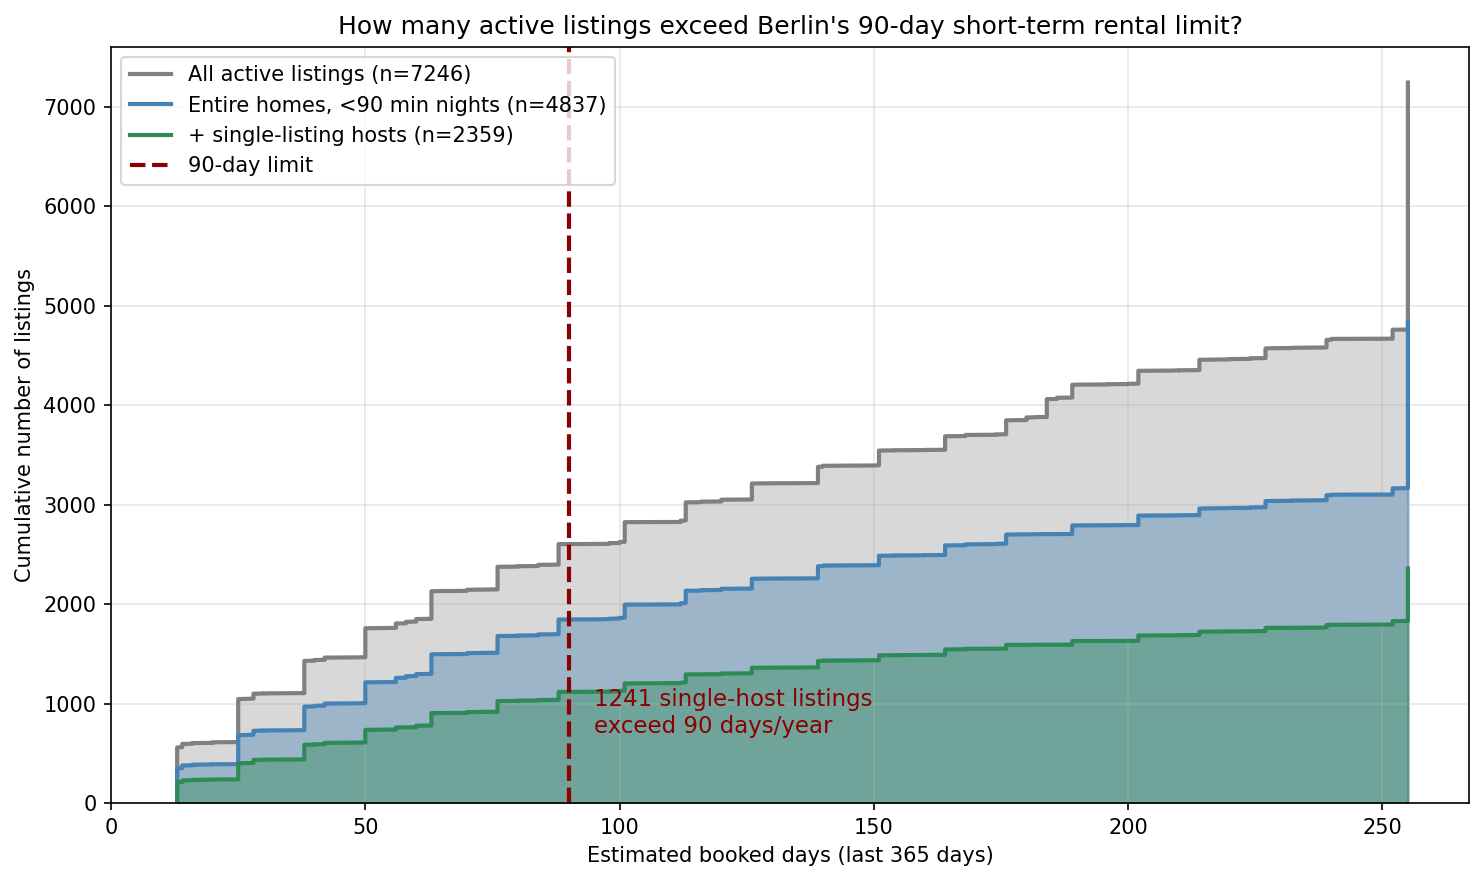
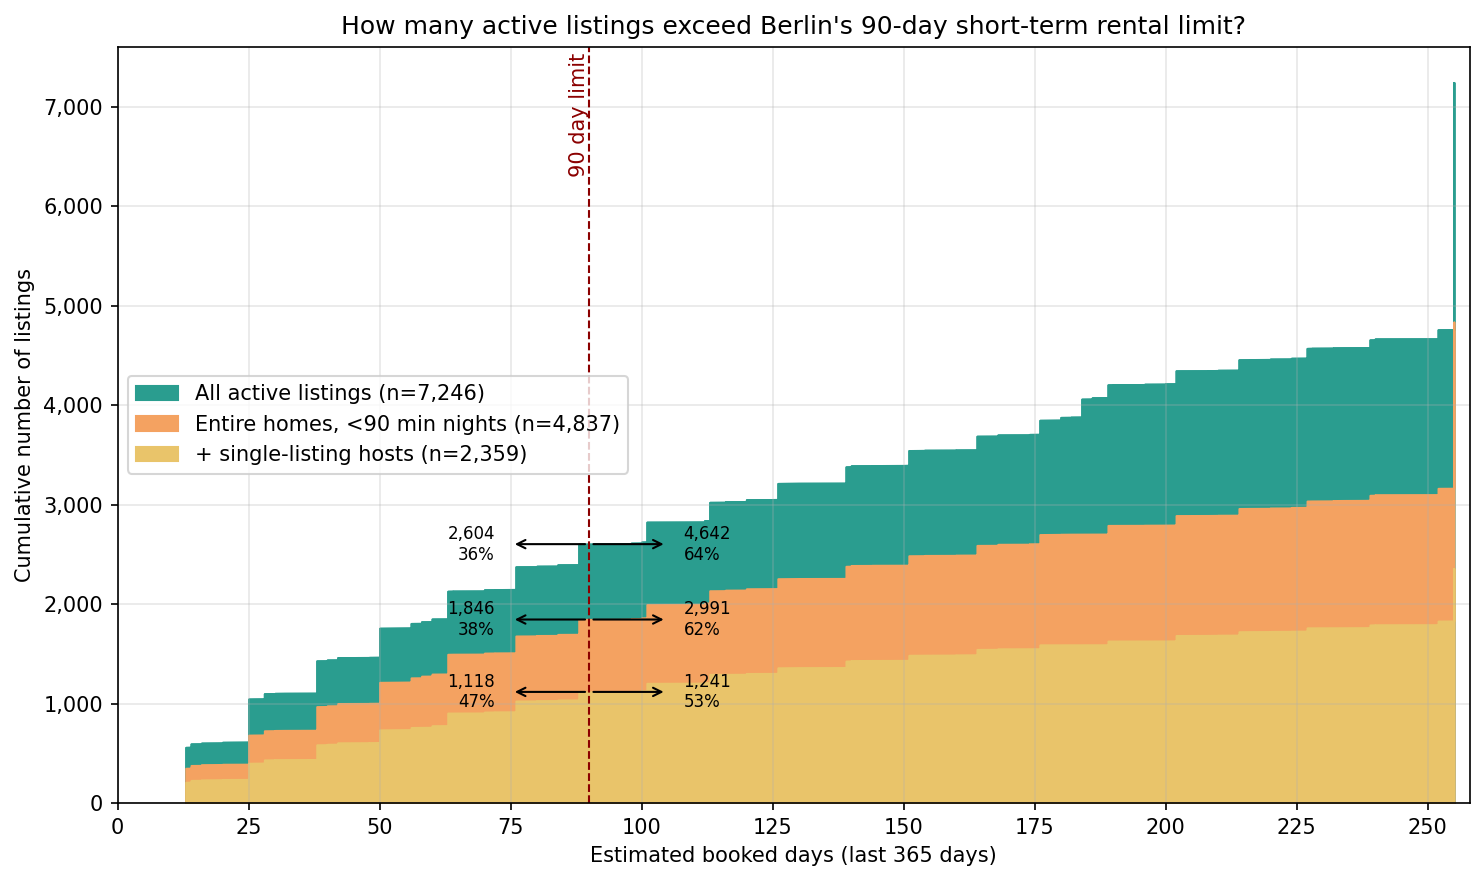
updated the Readme from my angle

diff --git a/README.md b/README.md
@@ -11,11 +11,9 @@
 
 ## 📋 Project Overview
 
-> [2–3 sentences describing the project goal, the dataset used, and what the
-> two analysts set out to answer. Example structure: "This project explores the
-> Berlin Airbnb market using the Inside Airbnb dataset. Two independent
-> marketing-focused analyses were conducted in parallel, covering [Angle 1] and
-> [Angle 2]."]
+> This project explores the Berlin Airbnb market using the Inside Airbnb dataset.
+> Two independent marketing-focused analyses were conducted in parallel, covering
+> suspected violations of Berlin's 90-day short-term rental cap and [Angle 2].
 
 ---
 
@@ -23,9 +21,9 @@
 
 **Source:** [Inside Airbnb](https://insideairbnb.com/get-the-data/) — Berlin, Germany
 **License:** [Creative Commons Attribution 4.0 International (CC BY 4.0)](https://creativecommons.org/licenses/by/4.0/)
-**Snapshot date:** [Month, Year]
+**Snapshot date:** [September, 2025]
 
-> The dataset contains [X] listings across 12 Berlin districts with [X] attributes
+> The dataset contains **14,274** listings across 12 Berlin districts with **75** attributes
 > covering pricing, host behavior, availability, reviews, and amenities.
 
 ---
@@ -35,16 +33,24 @@
 ```
 inside-airbnb-berlin/
 │
-├── data/
-│   └── [raw data files]
+├── Dashboards
+│   └──Inside_AirBnB.twbx
+|
+├── Data
+│   └── [raw data files]            <- not pushed to GitHub
 │
-├── [analyst-1-folder]/
-│   ├── [notebook-name].ipynb
-│   └── outputs/
+├── Notebooks
+│   ├── 01_Selma_overview.ipynb
+│   └── 02_Selma_90dayslimit.ipynb
+|   └── berlin_airbnb_market_overview
+│   └──booking_demand_analysis
 │
-├── [analyst-2-folder]/
-│   ├── [notebook-name].ipynb
-│   └── outputs/
+├── Plotting_output
+│   ├── berlin_airbnb_market_overview
+│   └── booking_demand_analysis
+│   └── SelmasPlots
+│       └── 00_overviews
+│       └── 01_occupancy
 │
 └── README.md
 ```
@@ -58,23 +64,23 @@ the Berlin Airbnb market from a distinct marketing perspective.
 
 ---
 
-### Angle 1 — [Analysis Title]
-**Analyst:** [Your Name]
+### Angle 1 — Berlin's 90-day short-term rental cap
+**Analyst:** Selma Esders
 
-> [2–3 sentences describing what this angle investigates, the marketing
-> question it answers, and why it matters from a business perspective.]
+> This project investigates how many of Berlin's ~14,000 Airbnb listings likely violate the city's 90-day short-term rental cap (Zweckentfremdungsverbot). Using Inside Airbnb data, it combines room type, minimum stay, host portfolio, and estimated occupancy to flag suspected offenders and map where they cluster across the city's 12 districts. Built as an interactive Tableau dashboard, it turns open data into a practical lens on Berlin's housing shortage.<
 
 | | |
 |---|---|
-| **Marketing focus** | [e.g. Demand generation / Pricing strategy / Brand equity] |
-| **Methods** | [e.g. OLS Regression (HC3), A/B Testing, Confidence Intervals] |
-| **Key tools** | Python · pandas · statsmodels · matplotlib · seaborn |
-| **Notebook** | [`[notebook-name].ipynb`]([path/to/notebook]) |
+| **Focus** | Regulatory compliance analysis |
+| **Methods** | Cumulative distribution (ECDF), proportional analysis, box plots (log scale), geospatial mapping  |
+| **Key tools** | Python · pandas · statsmodels · matplotlib · seaborn · Tableau Public |
+| **Notebook** | 02_Selma_90dayslimit (\Notebooks) |
+| **Tableau** | Inside_AirBnB.twbx (\Dashboards\) |
 
 **Key findings:**
-- [Placeholder finding 1]
-- [Placeholder finding 2]
-- [Placeholder finding 3]
+- Of all active listings, 24 % are booked beyond Berlin's 90-day limit, with entire homes run by multi-listing hosts forming the strongest violation suspects.
+- Mitte, Pankow, and Friedrichshain-Kreuzberg show the highest share of suspected violations relative to their active listings — where inspections would most likely score a hit.
+- Median estimated revenue rises as listings move closer to a suspected violation, partly reflecting higher-earning traits (entire homes, high occupancy) being filtered in.
 
 ---
 
@@ -102,5 +108,5 @@ the Berlin Airbnb market from a distinct marketing perspective.
 
 | Analyst | Analysis Angle | Focus Area |
 |---|---|---|
-| [Your Name] | [Angle 1 Title] | [Marketing focus] |
+| Selma Esders | Berlin's 90-day short-term rental cap | Regulatory compliance analysis |
 | [Colleague's Name] | [Angle 2 Title] | [Marketing focus] |
